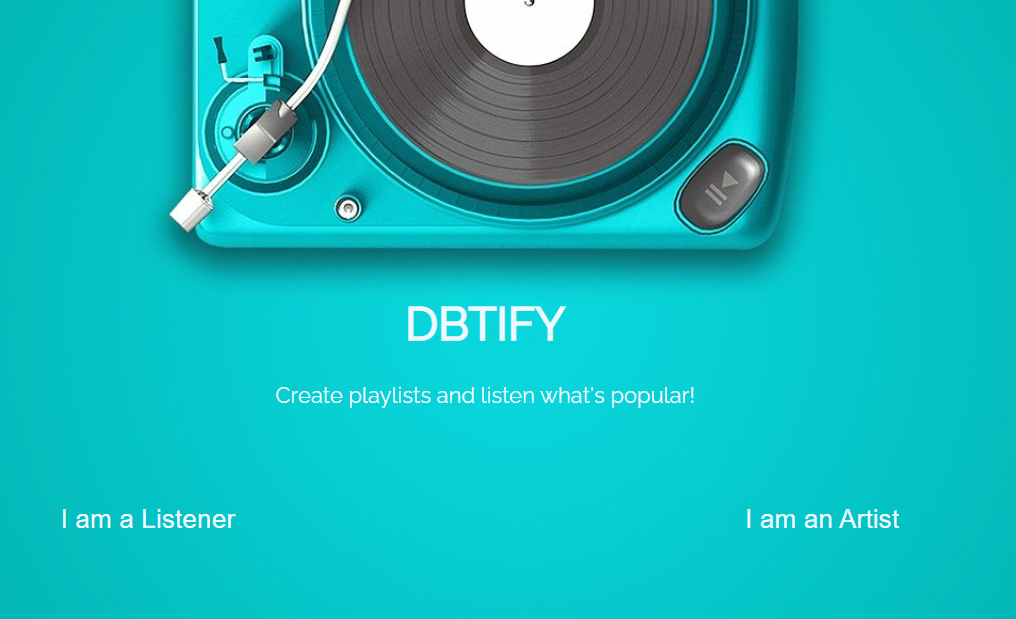
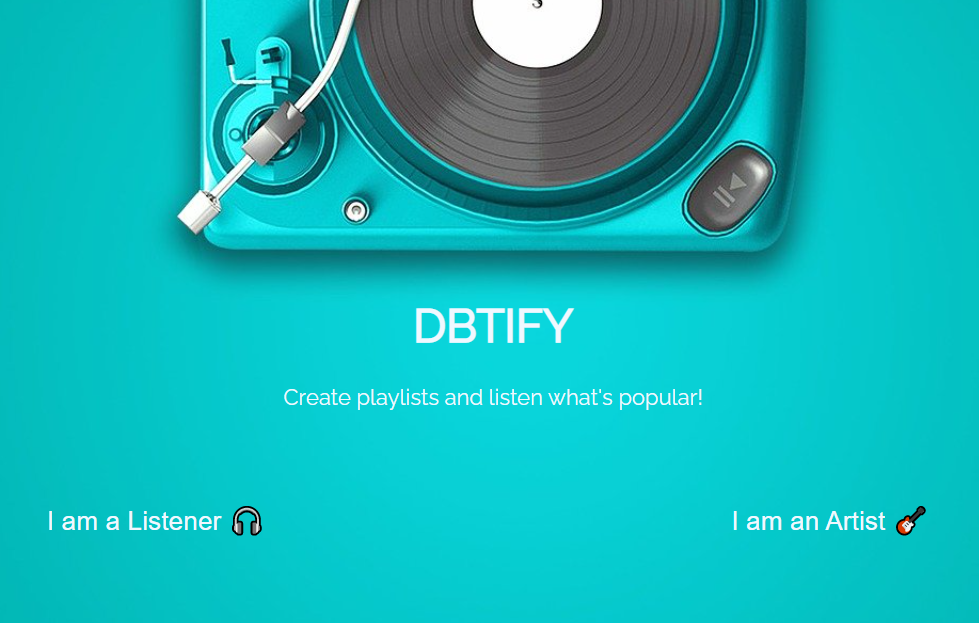
screenshot update
update screenshot, add emoji

diff --git a/templates/index.html b/templates/index.html
@@ -19,10 +19,10 @@
     </div>
     <div id="container">
         <div id="first">
-            <a href="listener" style="font-size: x-large;">I am a Listener</a>
+            <a href="listener" style="font-size: x-large;">I am a Listener 🎧</a>
         </div>
         <div id="second">
-            <a href="listener" style="font-size: x-large;">I am an Artist</a>
+            <a href="listener" style="font-size: x-large;">I am an Artist 🎸</a>
         </div>
         <div id="clear"></div>
     </div>
